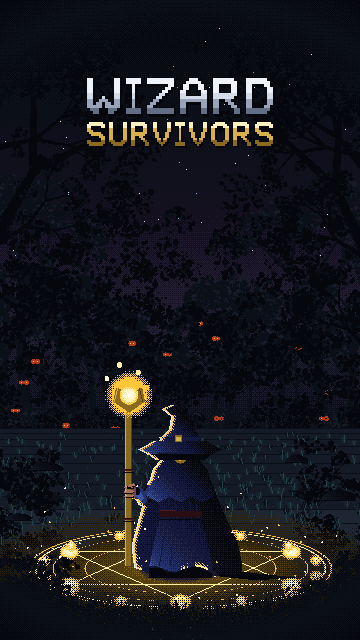
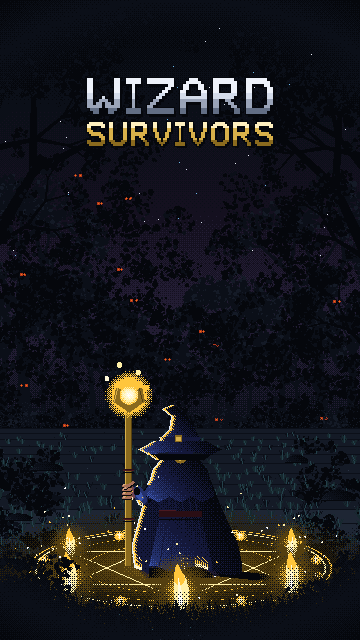
art: set the ward alight, and give him a real grip on the staff
The six points of the hexagram were small radial lamps and read as tealights.
They are flames now, drawn as a stack of discs down a wavering axis with a thin
hot core and sparks above, and depth-sorted around the figure so the far three
do not stand in front of him.

Two things about flames worth keeping: the bloom is two stages, a wide dim halo
in pigment gold and a tight emissive one, because a single filled ellipse of the
ramp bottom is a solid gold disc that swallows whatever is drawn inside it. And
the core is 30% of the body width, not half. Both mistakes produce the same
result - a glowing ball with a tail.

The under-lighting reaches about twice as far up the figure now, so the ward
visibly lights him rather than merely sitting under him.

Hand: shifted left onto the shaft instead of beside it, a fourth finger, and the
thumb clamps down ACROSS the finger stack rather than lying parallel above it.
Laid parallel it read as a fourth finger; crossing them is what makes the hand
read as gripping rather than as resting against the shaft.

Eyes: a second set up in the branches, drawn after the canopy because the leaf
mass buries anything placed before it. Both sets cut back hard and dropped a
step down the fire ramp - 34 pairs with an amber core had turned the wood into a
firefly meadow, which is the opposite of being watched.

diff --git a/tools/art/hero.py b/tools/art/hero.py
@@ -101,11 +101,14 @@ def _underlight(c, x0, x1, y0, y1, ramp):
             elif run:
                 run += 1
             if run:
-                if run <= 2:
-                    c.set(x, y, ramp[2] if (x + y) % 4 else ramp[3])
-                elif run <= 5 and (x * 2 + y) % 3 == 0:
+                if run <= 3:
+                    c.set(x, y, ramp[1] if (x + y) % 4 else ramp[2])
+                elif run <= 6:
+                    if (x + y * 2) % 2 == 0:
+                        c.set(x, y, ramp[3])
+                elif run <= 11 and (x * 3 + y) % 4 == 0:
                     c.set(x, y, ramp[3])
-                if run > 5:
+                if run > 11:
                     break
 
 
@@ -162,11 +165,11 @@ def _arm(c, cx, yb, u, sx, r):
     c.disc(wrist[0] + dx * 0.3 * u, wrist[1] + dy * 0.3 * u, 0.72 * u, 0.85 * u, OCC)
     # back of the hand, behind the shaft
     s = M["flesh"]
-    c.poly([(sx + 0.6 * u, gy - 1.2 * u), (sx + 1.5 * u, gy - 1.4 * u),
-            (sx + 1.9 * u, gy - 0.9 * u), (sx + 2.0 * u, gy + 0.8 * u),
-            (sx + 1.5 * u, gy + 1.3 * u), (sx + 0.8 * u, gy + 1.2 * u),
-            (sx + 0.5 * u, gy + 0.5 * u), (sx + 0.5 * u, gy - 0.7 * u)], s[3])
-    c.line(sx + 0.6 * u, gy - 1.1 * u, sx + 1.5 * u, gy - 1.3 * u, s[2])
+    c.poly([(sx + 0.15 * u, gy - 1.4 * u), (sx + 1.1 * u, gy - 1.6 * u),
+            (sx + 1.5 * u, gy - 1.0 * u), (sx + 1.6 * u, gy + 1.1 * u),
+            (sx + 1.1 * u, gy + 1.6 * u), (sx + 0.35 * u, gy + 1.5 * u),
+            (sx + 0.05 * u, gy + 0.6 * u), (sx + 0.05 * u, gy - 0.8 * u)], s[3])
+    c.line(sx + 0.15 * u, gy - 1.3 * u, sx + 1.1 * u, gy - 1.5 * u, s[2])
 
 
 def _fingers(c, yb, u, sx, w):
@@ -179,18 +182,22 @@ def _fingers(c, yb, u, sx, w):
     """
     s = M["flesh"]
     gy = _grip_y(yb, u)
-    for i in range(3):
-        fy = gy - 0.95 * u + i * 0.95 * u
-        _capsule(c, sx + 1.3 * u, fy - 0.12 * u, sx - 0.2 * u, fy,
-                 0.38 * u, 0.30 * u, OCC)
-        _capsule(c, sx + 1.3 * u, fy - 0.26 * u, sx - 0.2 * u, fy - 0.12 * u,
-                 0.30 * u, 0.24 * u, s[2])
-        c.disc(sx - 0.12 * u, fy - 0.36 * u, 0.22 * u, 0.2 * u, s[1])   # knuckle, orb-lit
-    # thumb, coming over the shaft from behind, shorter than the fingers
-    _capsule(c, sx + 1.6 * u, gy - 1.55 * u, sx + 0.5 * u, gy - 1.25 * u,
-             0.38 * u, 0.28 * u, OCC)
-    _capsule(c, sx + 1.6 * u, gy - 1.68 * u, sx + 0.5 * u, gy - 1.38 * u,
-             0.30 * u, 0.22 * u, s[2])
+    # Four fingers, shifted left so the fist sits ON the shaft rather than beside it.
+    for i in range(4):
+        fy = gy - 1.30 * u + i * 0.86 * u
+        _capsule(c, sx + 0.95 * u, fy - 0.12 * u, sx - 0.62 * u, fy,
+                 0.36 * u, 0.28 * u, OCC)
+        _capsule(c, sx + 0.95 * u, fy - 0.25 * u, sx - 0.62 * u, fy - 0.12 * u,
+                 0.28 * u, 0.22 * u, s[2])
+        c.disc(sx - 0.5 * u, fy - 0.34 * u, 0.2 * u, 0.19 * u, s[1])    # knuckle, ward-lit
+    # The thumb clamps down ACROSS the fingers rather than sitting above them. Laid parallel
+    # it read as a fourth finger; crossing the stack is what makes the hand read as gripping
+    # rather than as resting against the shaft.
+    _capsule(c, sx + 1.5 * u, gy - 2.05 * u, sx - 0.25 * u, gy - 0.75 * u,
+             0.40 * u, 0.30 * u, OCC)
+    _capsule(c, sx + 1.5 * u, gy - 2.2 * u, sx - 0.25 * u, gy - 0.9 * u,
+             0.32 * u, 0.24 * u, s[2])
+    c.disc(sx - 0.15 * u, gy - 0.95 * u, 0.22 * u, 0.2 * u, s[1])
 
 
 def wizard_hero(c, cx, yb, h=150, robe="wool", staff_ramp=None, cast=(1.5, 0.5),

diff --git a/tools/art/splash.py b/tools/art/splash.py
@@ -113,8 +113,8 @@ def vigil():
         br = rb.randrange(6, 20)
         sk.brush(c, bx, by, br, br * 0.62, seed=rb.randrange(9999),
                  dark=OCC, light=M["stone"][4], density=1.15)
-    eyes_in_the_dark(c, 322, 452, 19, 5,
-                     [E["fire"][1], E["fire"][2], E["fire"][3], E["fire"][3]])
+    eyes_in_the_dark(c, 330, 450, 9, 5,
+                     [E["fire"][2], E["fire"][3], E["fire"][3], None])
     mist(c, 396, 452, M["stone"][3], 0.10, 4)
 
     # ground: flagstone bands that widen toward the camera
@@ -180,6 +180,10 @@ def vigil():
                  leaf_r=17, density=1.6)
     sk.canopy(c, 0, 400, CLEAR, 250, seed=151, dark=OCC, light=M["stone"][4], width=W,
               density=1.25)
+    # A second set of eyes up in the branches, after the canopy - drawn before it the leaf mass
+    # buries them. Things above him as well as around him.
+    eyes_in_the_dark(c, 172, 330, 7, 71,
+                     [E["fire"][2], E["fire"][3], E["fire"][3], None])
 
     # The ward circle. It is the second light source in the frame after the orb, and it is
     # what the composition is actually about, so it burns on an ELEMENT ramp - the same one
@@ -213,8 +217,15 @@ def vigil():
         star.append((cxp + math.cos(a) * 128, cyp + math.sin(a) * 33))
     for i in range(6):                                    # two triangles, one hexagram
         c.line(star[i][0], star[i][1], star[(i + 2) % 6][0], star[(i + 2) % 6][1], A[2])
-    for (nx, ny) in star:                                 # a lamp at each point
-        c.radial(nx, ny, 11, 8, [A[0], A[1], A[2], A[3], None])
+    # The six points of the star each burn. These were small radial lamps and read as tealights;
+    # the ward is supposed to be holding something off, so they are flames now, z-sorted around
+    # the figure like the candles used to be so the far side does not stand in front of him.
+    def ward_flames(front):
+        for i, (nx, ny) in enumerate(star):
+            depth = (ny - cyp) / 33.0
+            if (depth > -0.1) != front:
+                continue
+            sk.flame(c, nx, ny + 1, 29 + depth * 9, A, seed=311 + i * 7)
     for i in range(14):                                   # rune ticks around the outer band
         a = i * 6.28318 / 14.0 + 0.22
         rx0 = cxp + math.cos(a) * 139
@@ -227,7 +238,9 @@ def vigil():
     # No candles on the ring any more. Nine orange flames around a gold-white ward put two
     # warm light sources in the same place competing for the same job, and the ward is now
     # bright enough to do it alone. The only fire left on frame is in the treeline.
+    ward_flames(False)
     hero.wizard_hero(c, cxp, cyp, h=150, staff_ramp=A, under_ramp=A)
+    ward_flames(True)
 
     # motes lifting off the ring, after the figure so they drift in front of him too
     rm = random.Random(509)

diff --git a/tools/art/splashkit.py b/tools/art/splashkit.py
@@ -316,6 +316,44 @@ def canopy(c, y0, y1, clear, n, seed=0, dark=None, light=None, width=360, densit
         placed += 1
 
 
+def flame(c, x, ybase, h, ramp, seed=0, width=None):
+    """A standing flame: bloom, tapering body, hot inner core, sparks above it.
+
+    Built as a stack of discs down a wavering axis rather than as one teardrop polygon. A
+    flame that is a single smooth shape reads as a leaf; the value break between the body and
+    the core, and the ragged edge the disc stack leaves, are what make it read as burning.
+    """
+    rng = random.Random(seed)
+    w = width or h * 0.185
+    # Two-stage bloom. One filled ellipse of the ramp bottom is a solid gold disc, and the
+    # flame drawn inside it disappears - which is why the first pass read as a glowing ball
+    # with a tail. The wide halo is pigment gold, dim; only the tight one emits.
+    c.radial(x, ybase - h * 0.30, h * 0.95, h * 1.02,
+             [M["gold"][2], M["gold"][3], None])
+    c.radial(x, ybase - h * 0.30, h * 0.42, h * 0.48, [ramp[3], None])
+    lean = (rng.random() - 0.5) * h * 0.22
+    n = max(7, int(h))
+    for i in range(n + 1):                                # body
+        t = i / float(n)
+        prof = (1.0 - t) ** 0.55 * (1.0 + 0.35 * math.sin(t * 3.14159))
+        px = x + lean * t * t + math.sin(t * 5.2 + rng.random() * 0.25) * h * 0.035
+        py = ybase - h * t
+        c.disc(px, py, max(0.6, w * prof), max(0.7, w * prof * 1.2),
+               ramp[3] if t > 0.62 else ramp[2])
+    # The core is deliberately thin. At half the body width it swallowed the flame and the
+    # whole thing read as a glowing lump rather than as something burning.
+    for i in range(n + 1):
+        t = i / float(n)
+        prof = (1.0 - t) ** 0.75 * (1.0 + 0.3 * math.sin(t * 3.14159))
+        c.disc(x + lean * t * t, ybase - h * t * 0.62,
+               max(0.5, w * prof * 0.30), max(0.6, w * prof * 0.42),
+               ramp[0] if t < 0.35 else ramp[1])
+    for _ in range(3):                                    # sparks
+        c.disc(x + (rng.random() - 0.5) * h * 0.7,
+               ybase - h * (1.05 + rng.random() * 0.55), 1, 1,
+               ramp[1] if rng.random() < 0.5 else ramp[2])
+
+
 def brush(c, x, y, w, h, seed=0, dark=None, light=None, density=1.0):
     """Low undergrowth: a leaf mass wider than it is tall, sitting on a line.
 

diff --git a/.ai/title-screen.md b/.ai/title-screen.md
@@ -95,6 +95,8 @@ order bugs. Back to front:
 | **The colour of all wizard magic** | `WARD` at the top of `vigil()` — one name moves the orb, the rings, the motes and the light on the figure together |
 | Ward circle size and position | `cxp, cyp` and the radii in `vigil()` |
 | How bright the ward burns | the rings, star nodes and rune ticks in `vigil()`, all on `WARD` |
+| The six flames on it | `ward_flames()` in `vigil()` for height and depth-sort; `flame()` in `splashkit.py` for shape |
+| How many things are watching | the two `eyes_in_the_dark` calls — one in the treeline, one up in the branches after the canopy |
 | How far its light spreads on the floor | the three `radial` pools, on the **violet material** row |
 | How much it lights the figure | `under_ramp=` on `wizard_hero`, and `_underlight` in `hero.py` |
 | Figure size | `hero.wizard_hero(c, cxp, cyp, h=150)` |
@@ -170,6 +172,13 @@ never polygons: at this size four right angles reads as a brick.
   `occ`; what it needed was a dithered edge, not a brighter middle.
 - The ward sits at `cyp = 568`, not 578, purely so its lower arc clears the PRESS ANY KEY band at
   rows 616–636. Brightening the circle is what made that collision matter.
+- **A flame is a body with a thin core, not a bloom with a body inside it.** The first version
+  put one filled ellipse of the ramp bottom behind each flame and gave the core half the body
+  width; both read as a glowing ball with a tail. The bloom is now two stages — a wide dim halo
+  in *pigment* gold and a tight emissive one — and the core is 30% of the body width.
+- **Eyes are cheap and it is easy to overspend them.** 34 pairs with an amber core turned the
+  wood into a firefly meadow. Nine in the treeline and seven in the branches, a step down the
+  fire ramp so they read red, is the amount that reads as *watched*.
 
 ## Verifying a change
 
